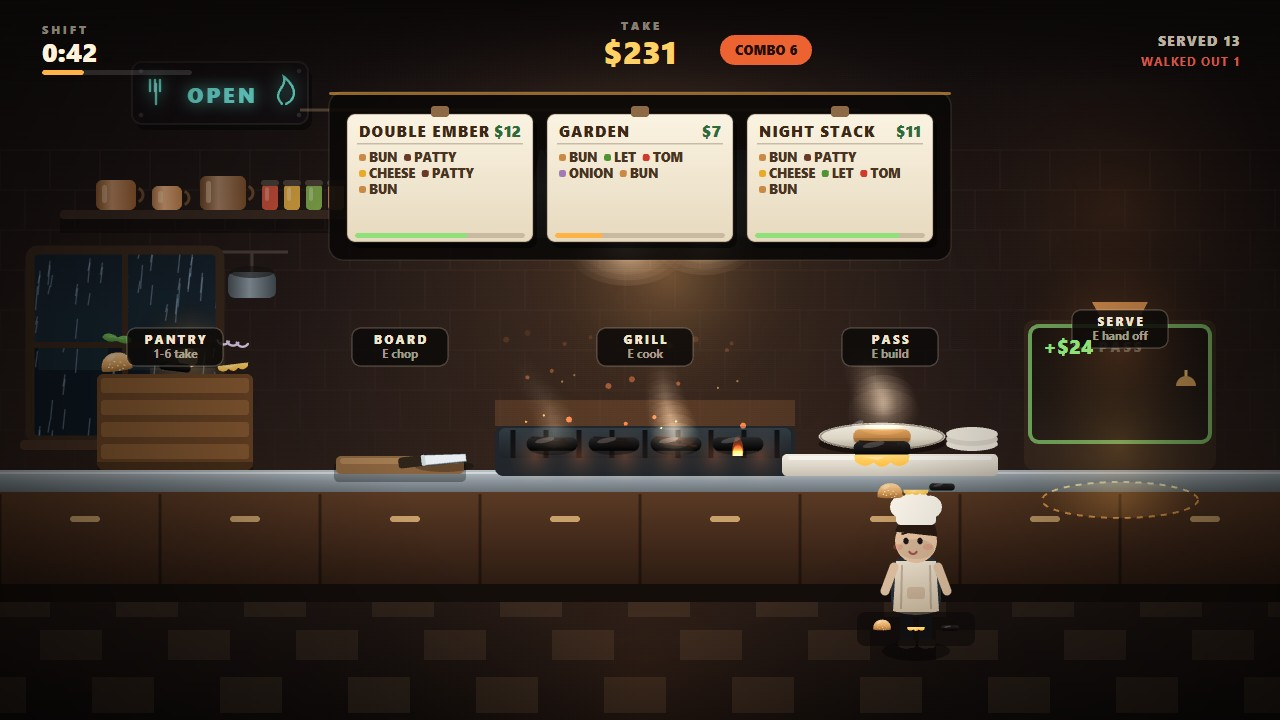
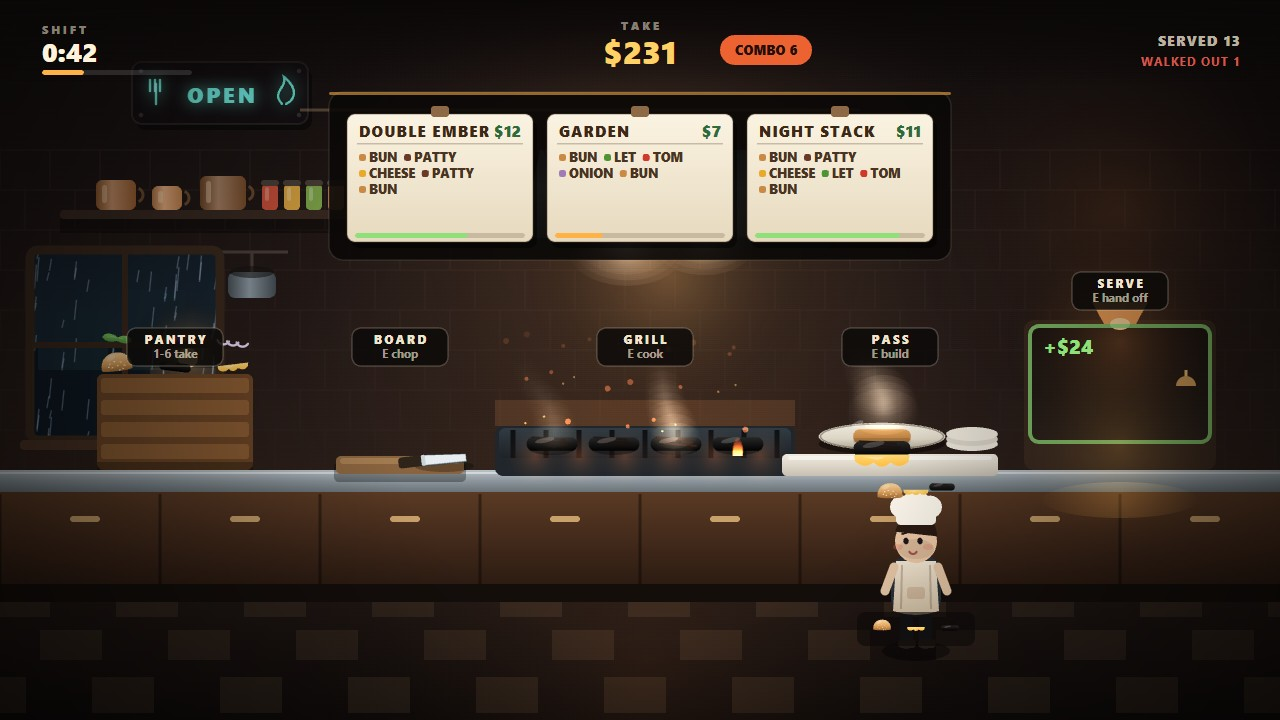
HUD cleanup: SERVE label lifted off the zone border, stray PASS watermark and floating dashed ring removed

Changed region(s): [[0.8125, 0.3667, 0.9375, 0.4889], [0.125, 0.3667, 0.1562, 0.4278]]

diff --git a/game/src/kitchen.js b/game/src/kitchen.js
@@ -590,7 +590,6 @@ export function drawServeWindow(ctx, t, state, hover) {
     ctx.stroke();
     ctx.restore();
   }
-  text(ctx, 'PASS', x, y - 118, { size: 13, weight: 800, color: 'rgba(255,243,220,0.4)', align: 'center', letter: 3 });
   ctx.restore();
   stationGlow(ctx, x, hover, COLORS.amber);
 }
@@ -607,13 +606,6 @@ function stationGlow(ctx, x, hover, color) {
   ctx.beginPath();
   ctx.ellipse(x, LINE.counterTop + 30, 78, 18, 0, 0, Math.PI * 2);
   ctx.fill();
-  ctx.strokeStyle = color;
-  ctx.globalAlpha = 0.55;
-  ctx.lineWidth = 2;
-  ctx.setLineDash([6, 6]);
-  ctx.beginPath();
-  ctx.ellipse(x, LINE.counterTop + 30, 78, 18, 0, 0, Math.PI * 2);
-  ctx.stroke();
   ctx.restore();
 }
 

diff --git a/game/src/hud.js b/game/src/hud.js
@@ -116,7 +116,7 @@ function drawStationLabels(ctx, state) {
     ctx.font = '600 11px Segoe UI, system-ui, sans-serif';
     const hw = ctx.measureText(hint).width + 22;
     const bw = Math.max(nw, hw, 96);
-    const by = LINE.counterTop - (name === 'SERVE' ? 160 : 142);
+    const by = LINE.counterTop - (name === 'SERVE' ? 198 : 142);
     ctx.globalAlpha = hot ? 1 : 0.94;
     ctx.fillStyle = 'rgba(12,9,8,0.9)';
     rrect(ctx, x - bw / 2, by, bw, 38, 9);
